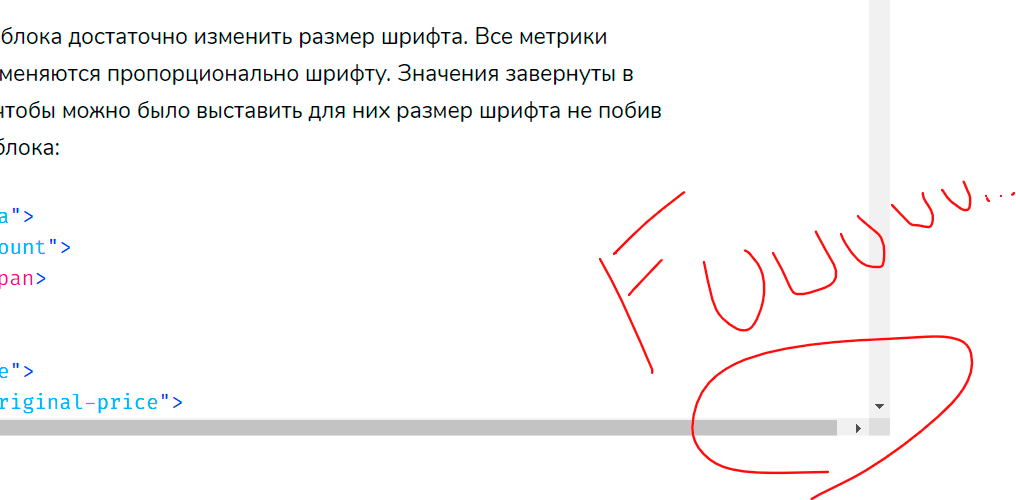
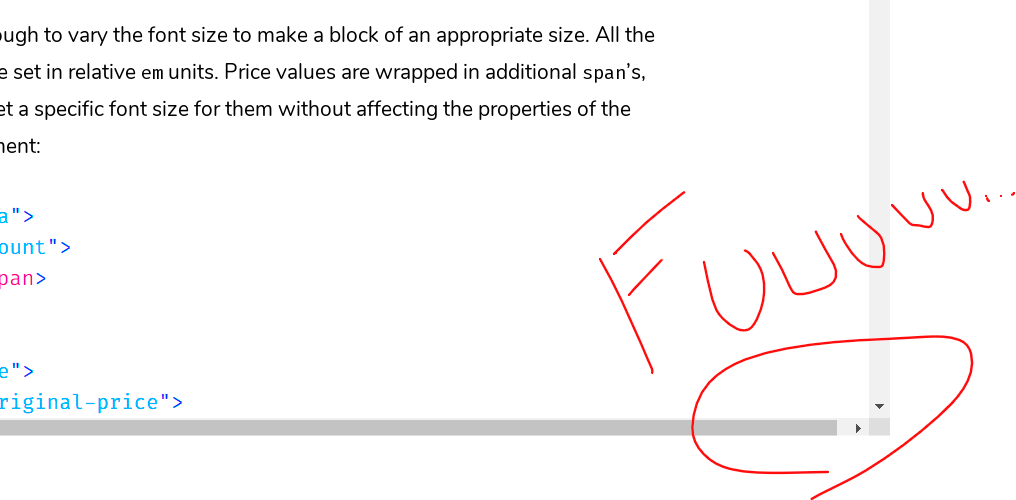
Full-width block post: strike out the --vw hack, translate the screenshots
The calc(50% - 50vw) technique still holds, but the JS-computed --vw
workaround for the scrollbar is obsolete: a size container on body
gives 100cqw without the scrollbar. Wrap that part in a deleted block
with a note, in both languages. The EN demo.png and fuuuuuuuuu.png get
their Russian labels repainted in English.

diff --git a/posts/ru/2020-10-25 – Как заверстать блок во всю ширину окна внутри блока с произвольной шириной/index.md b/posts/ru/2020-10-25 – Как заверстать блок во всю ширину окна внутри блока с произвольной шириной/index.md
@@ -109,6 +109,8 @@ langLink: 'how_to_make_a_full-window-width_block_inside_a_block_of_arbitrary_wid
 
 Оказывается, ширина вертикального скроллбара включается в ширину вьюпорта, то есть `100vw` — это больше, чем нам нужно, и появляется горизонтальный скролл. Не представляю, зачем это сделано именно так, не могу придумать случая, когда это было бы полезным.
 
+<del class="deleted-block">
+
 А счастье было так близко. Окей, время костылей. Гуглением находится один приемлемый костыль: засунуть в `<head>` скрипт, который будет класть в css-переменную `1vw` здорового человека (то есть без учета ширины скроллбара) и пересчитывать его при ресайзах:
 
 ```html
@@ -147,6 +149,11 @@ langLink: 'how_to_make_a_full-window-width_block_inside_a_block_of_arbitrary_wid
 ```
 
 Жить можно.
+
+</del>
+
+<%- include('/svg/history-solid.svg') %>Костыль больше не нужен: сделайте `body` size-контейнером (`container-type: inline-size`), и `100cqw` даст ширину окна без скроллбара. Этот блог так и свёрстан.
+{.notice .is-warning .is-with-icon}
 
 ## P.S. Скроллбары на маке
 

diff --git a/posts/en/2020-10-25 – How to make a full-window-width block inside a block of arbitrary width/index.md b/posts/en/2020-10-25 – How to make a full-window-width block inside a block of arbitrary width/index.md
@@ -109,6 +109,8 @@ A horizontal scrollbar, where the hell did it come from?
 
 Turns out the width of the vertical scrollbar is included in the viewport width, so `100vw` is more than we need, hence the horizontal scroll. I have no idea why it was made this way, I can’t think of a single case where it would be useful.
 
+<del class="deleted-block">
+
 Happiness was so close. Okay, hack time. Googling turns up one acceptable hack: put a script into `<head>` that stores a sane `1vw` (that is, without the scrollbar width) in a CSS variable and recalculates it on resize:
 
 ```html
@@ -147,6 +149,11 @@ Preprocessors smooth this horror out a bit. I made myself a `$vw: var(--vw, 1vw)
 ```
 
 Livable.
+
+</del>
+
+<%- include('/svg/history-solid.svg') %>The hack is no longer needed: make `body` a size container (`container-type: inline-size`), and `100cqw` gives you the window width without the scrollbar. This very blog is built that way.
+{.notice .is-warning .is-with-icon}
 
 ## P.S. Scrollbars on the Mac
 
